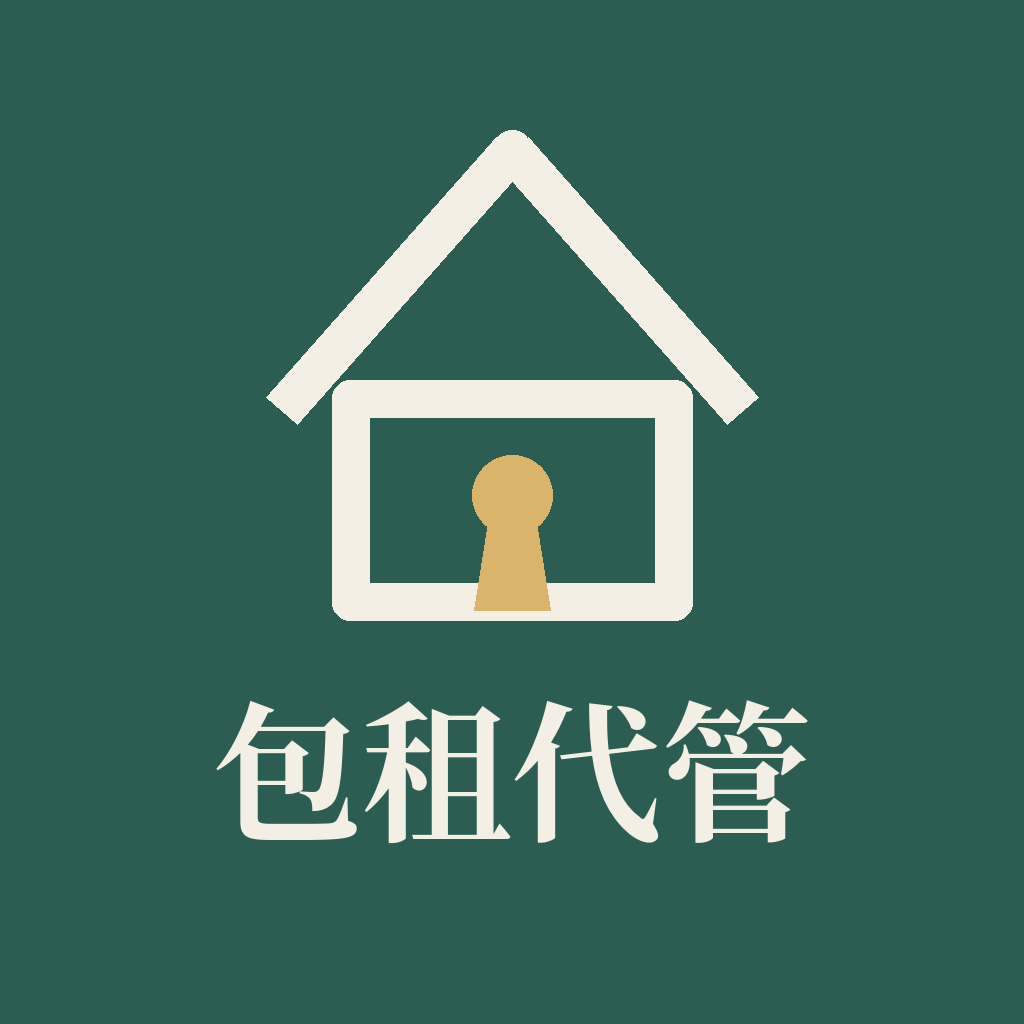
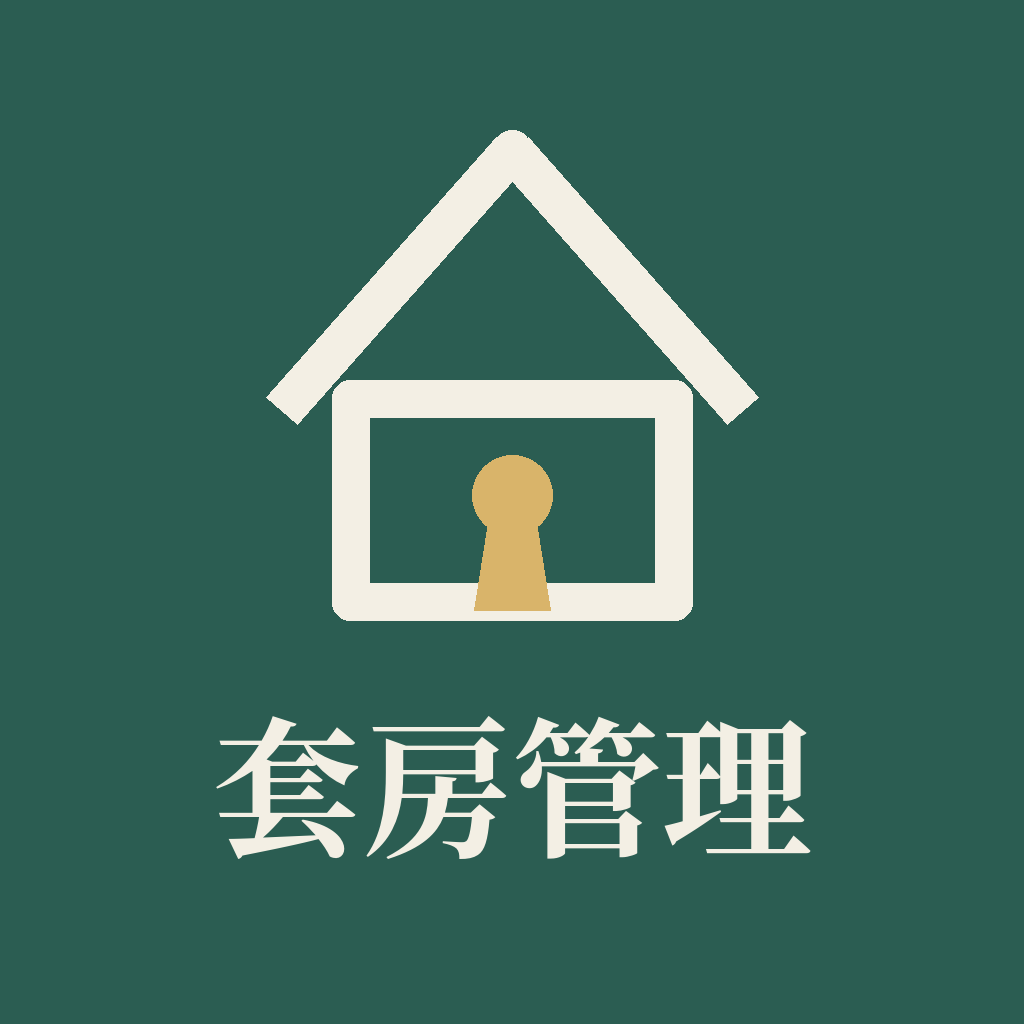
全站名稱改為「套房管理系統」，更新圖示文字
Claude-Session: https://claude.ai/code/session_01LWahtuqeDHczHZfagPurV7

Changed region(s): [[0.2188, 0.6875, 0.7812, 0.8438]]

diff --git a/index.html b/index.html
@@ -6,12 +6,12 @@
 <meta name="theme-color" content="#2b5d52">
 <meta name="apple-mobile-web-app-capable" content="yes">
 <meta name="mobile-web-app-capable" content="yes">
-<meta name="apple-mobile-web-app-title" content="包租代管">
+<meta name="apple-mobile-web-app-title" content="套房管理">
 <link rel="apple-touch-icon" href="icon.png">
 <link rel="icon" type="image/png" href="icon.png">
 <link rel="manifest" href="manifest.webmanifest">
 <link rel="stylesheet" href="css/roles.css">
-<title>包租代管紀錄簿</title>
+<title>套房管理系統</title>
 <link rel="preconnect" href="https://fonts.googleapis.com">
 <link rel="stylesheet" href="https://fonts.googleapis.com/css2?family=Noto+Sans+TC:wght@400;500;700&family=Noto+Serif+TC:wght@400;700;800&family=IBM+Plex+Mono:wght@500&family=LXGW+WenKai+TC:wght@400;700&family=Huninn&display=swap">
 
@@ -543,7 +543,7 @@ fieldset.grp .full{grid-column:1/-1}
 <div class="wrap">
   <header>
     <div>
-      <h1>包租代管紀錄簿</h1>
+      <h1>套房管理系統</h1>
       <p class="sub">房號與房客資料、簽約續約退租、房客協助、待修與代購代墊，一本帳記清楚。</p>
     </div>
     <div class="actions">
@@ -3138,7 +3138,7 @@ $("exportBtn").onclick = async () => {
   const head = ["登記日期","期限","完成日期","類型","物件","房號","房客","電話","事項","說明","廠商/購買地點","金額","費用負擔","請款狀態","處理狀態","租期起日","租期迄日/退租日","月租金","押金","磁扣押金","備註"];
   const rows = visible().map(r=>[r.date,r.due,r.doneDate,TYPE[r.type],r.property,r.room,who(r.tenant,r.honor),r.phone,r.title,r.detail,r.vendor,r.amount,BEARER[r.bearer],BILL[r.billing],STATUS[r.status],r.leaseStart,r.leaseEnd,r.rent||"",r.deposit||"",r.keyDeposit||"",r.note]);
   const csv = "" + [head,...rows].map(a=>a.map(v=>`"${String(v??"").replace(/"/g,'""')}"`).join(",")).join("\r\n");
-  try{ await downloads.save({filename:`包租代管紀錄_${today()}.csv`, data: new Blob([csv],{type:"text/csv"})}); }
+  try{ await downloads.save({filename:`套房管理紀錄_${today()}.csv`, data: new Blob([csv],{type:"text/csv"})}); }
   catch(e){ toast("沒有下載檔案"); }
 };
 
